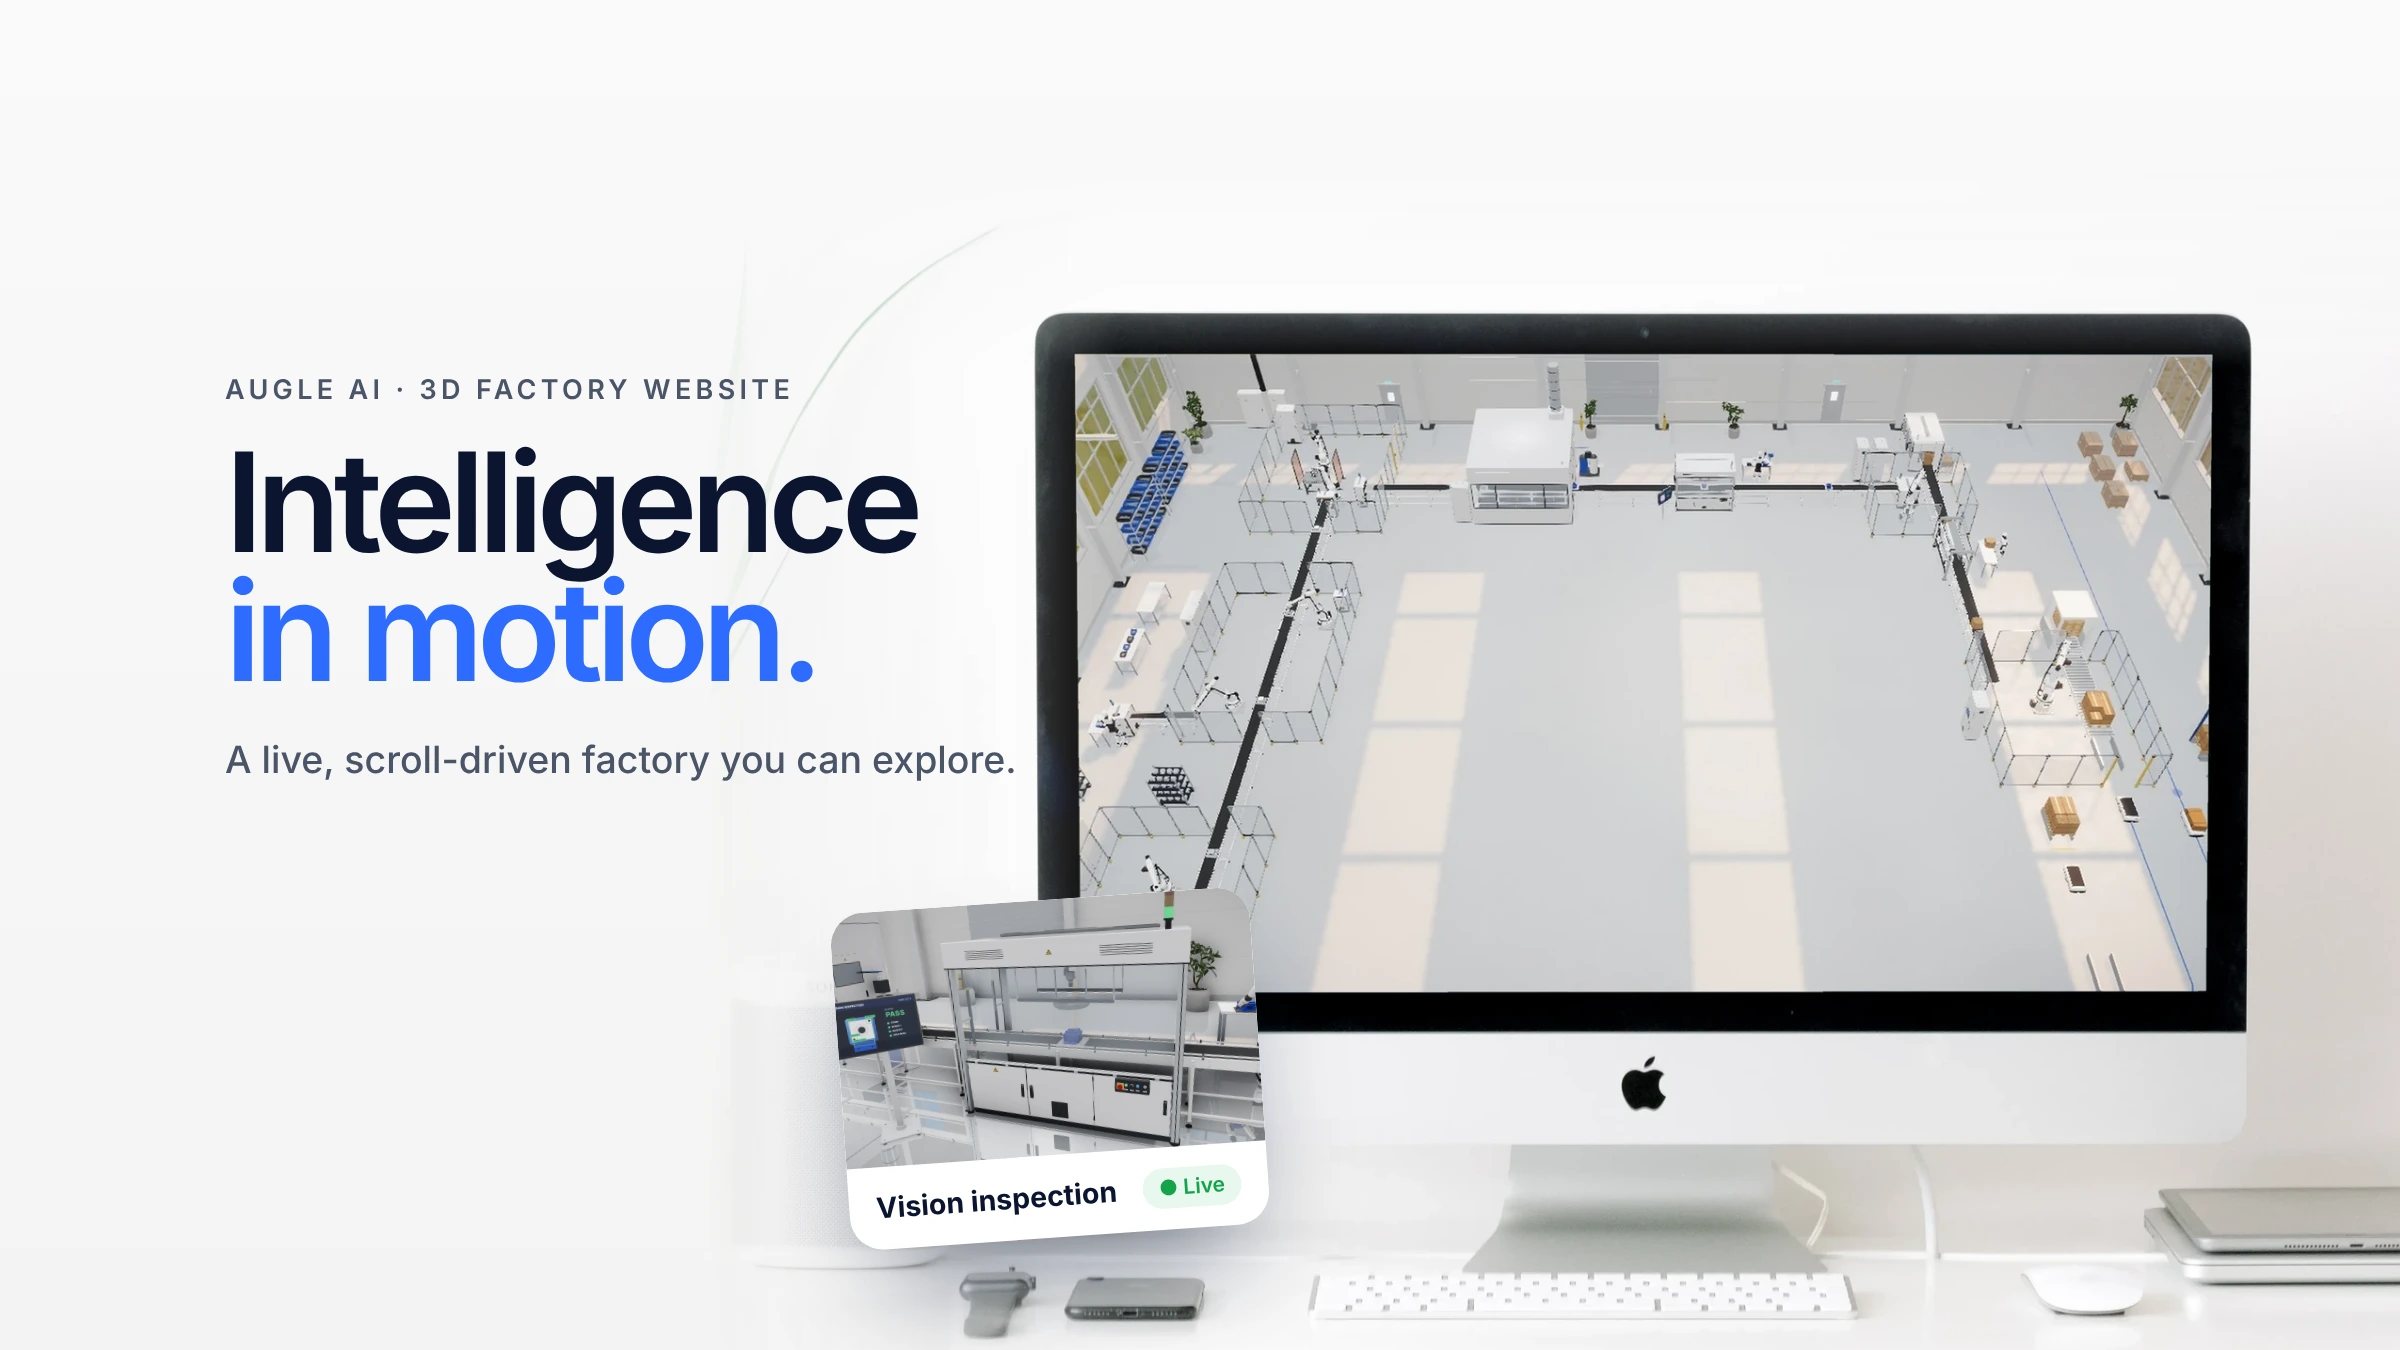
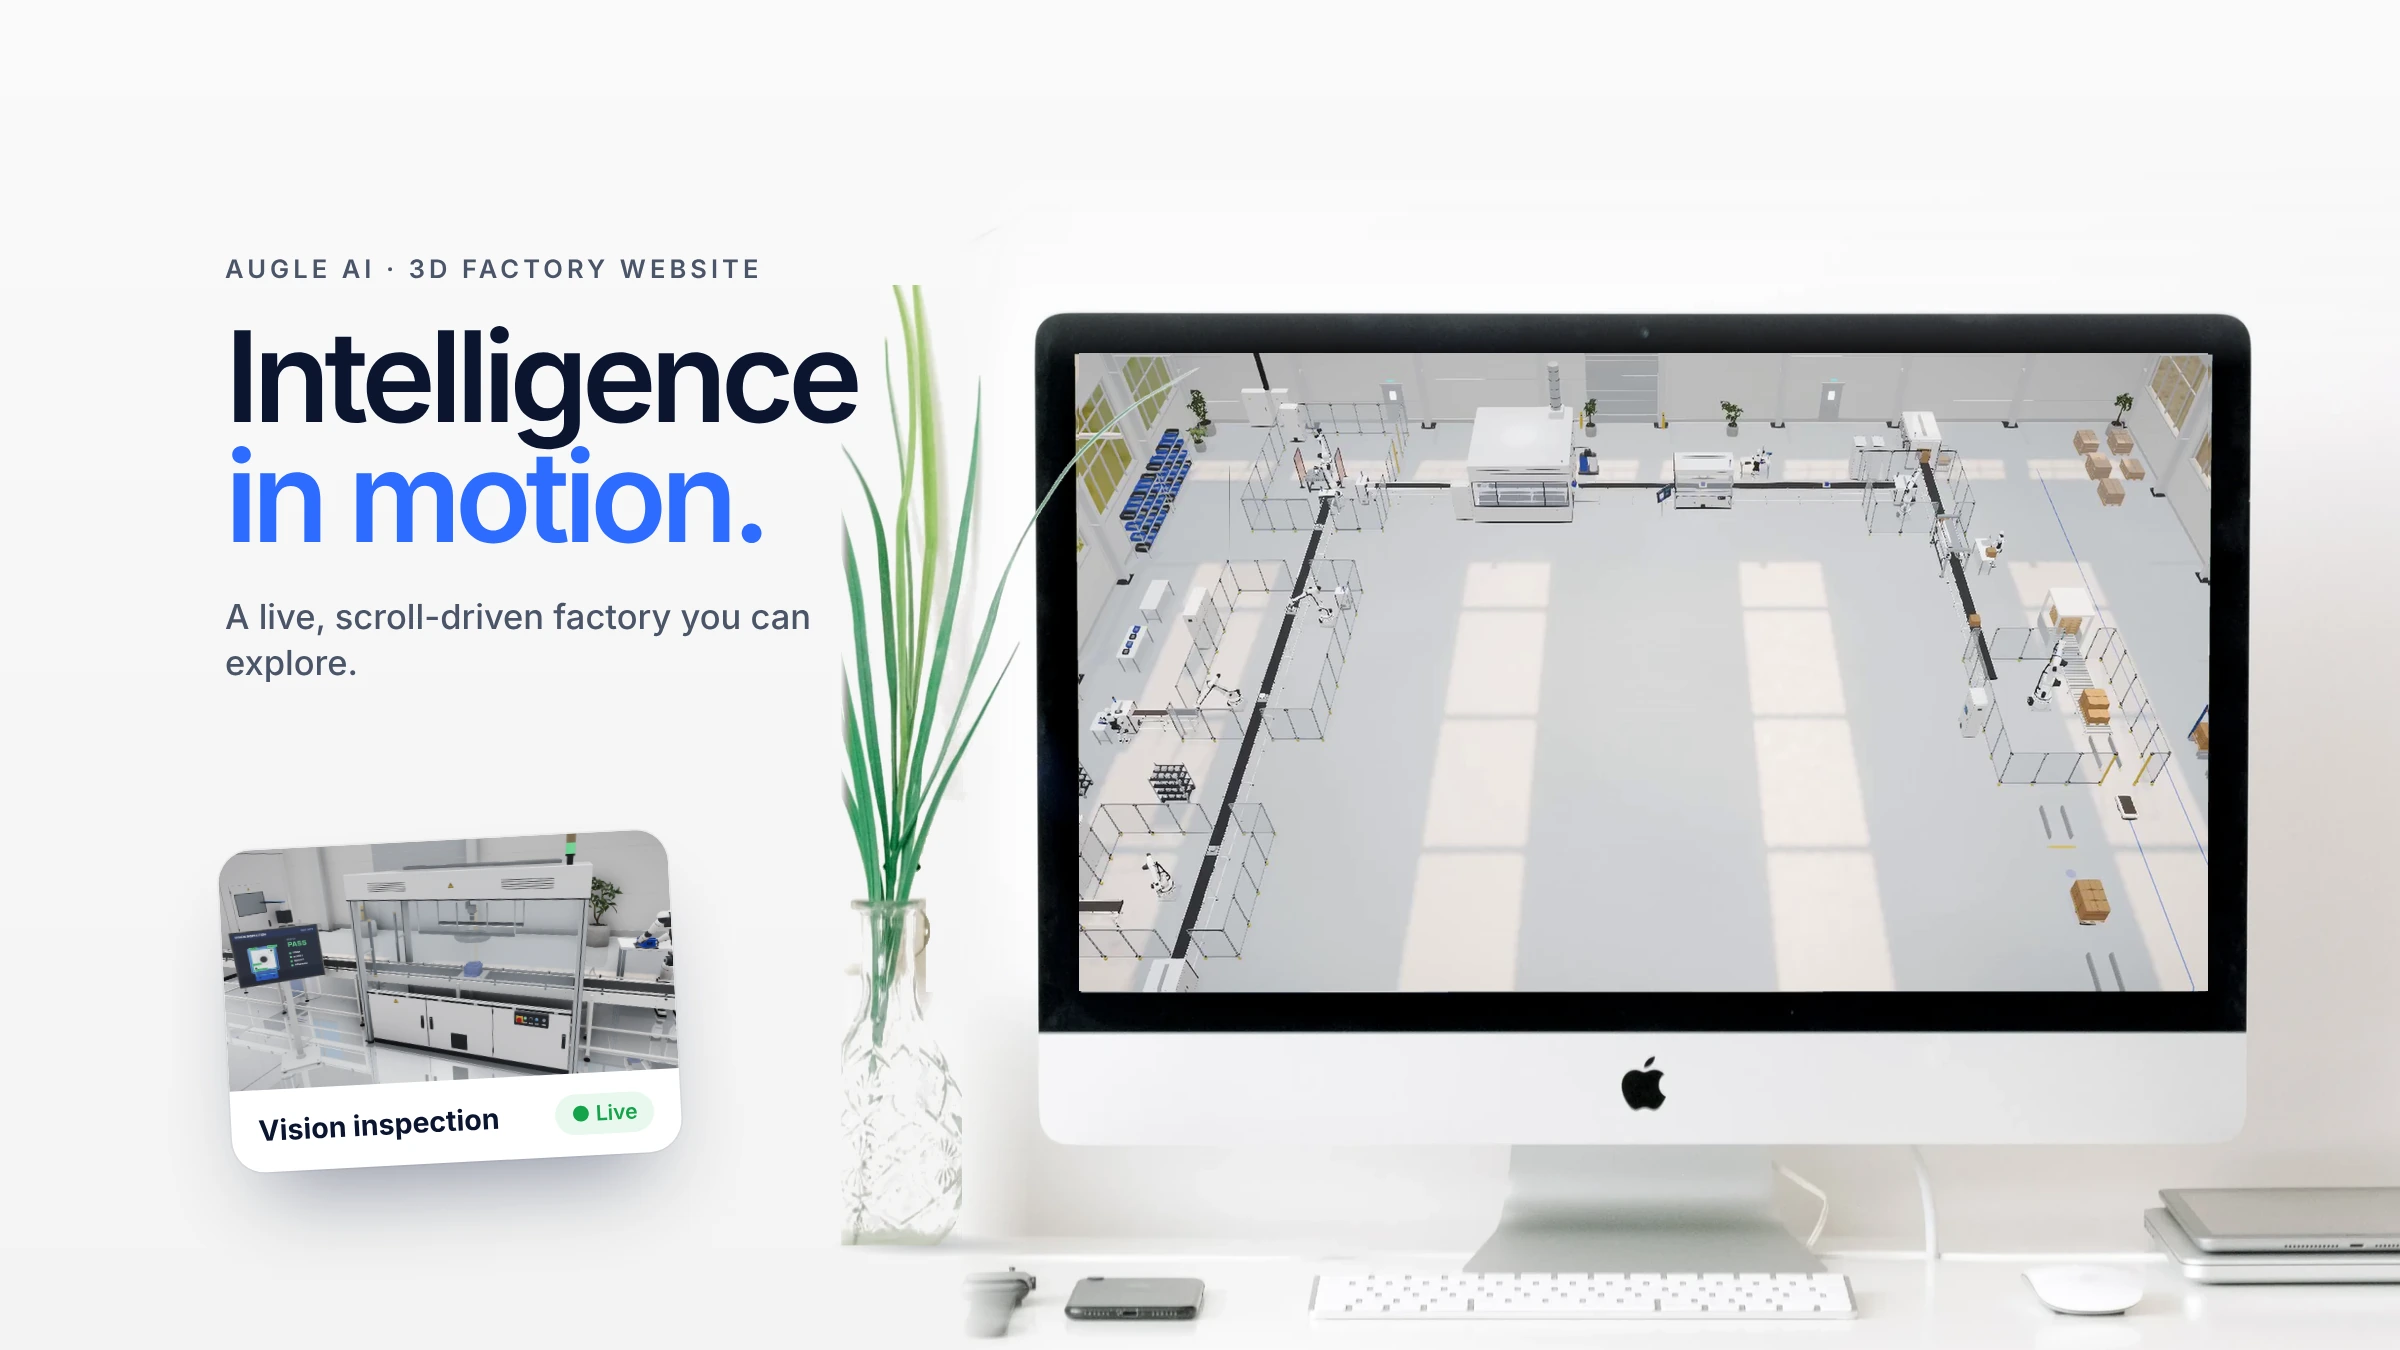
Augle AI cover: live factory fly-through on screen, glass vase plant; animated card image
Claude-Session: https://claude.ai/code/session_01SemH7L5vWzs6hJ7dDKU3vZ

Changed region(s): [[0.0938, 0.2178, 0.9375, 0.9956], [0.6875, 0.4044, 0.8125, 0.7467], [0.0938, 0.1867, 0.3125, 0.2178]]

diff --git a/pages/Explorations.dc.html b/pages/Explorations.dc.html
@@ -1319,7 +1319,7 @@ class Component extends DCLogic {
     const HDS = new Set(["adm_1.webp", "adm_2.webp", "bcard_back.webp", "bcard_front.webp", "bcard_grid_b.webp", "bcard_grid_f.webp", "bcard_mock.webp", "detail.webp", "g_animalia.webp", "g_berry.webp", "g_fashion.webp", "g_juice.webp", "g_mag.webp", "g_mango.webp", "g_menu.webp", "g_nature.webp", "g_style.webp", "g_wild.webp", "gm_bongo.webp", "gm_wood1.webp", "gm_wood2.webp", "int_1.webp", "int_2.webp", "int_3.webp", "int_4.webp", "int_5.webp", "int_6.webp", "m_arcade.webp", "m_bust.webp", "m_cart.webp", "m_char1.webp", "m_char2.webp", "m_chess.webp", "m_cup.webp", "m_glass.webp", "m_grenade.webp", "m_grille.webp", "m_house.webp", "m_tent.webp", "m_texture.webp", "m_toon.webp", "m_truck.webp", "mic_01_apc_b.webp", "mic_01_apc_f.webp", "mic_02_degreaser_b.webp", "mic_02_degreaser_f.webp", "mic_03_hard_water_remover_b.webp", "mic_03_hard_water_remover_f.webp", "mic_04_glass_cleaner_b.webp", "mic_04_glass_cleaner_f.webp", "mic_05_ipa_b.webp", "mic_05_ipa_f.webp", "mic_06_shampoo_b.webp", "mic_06_shampoo_f.webp", "mic_07_tar_remover_b.webp", "mic_07_tar_remover_f.webp", "mic_08_engine_dressing_b.webp", "mic_08_engine_dressing_f.webp", "mic_09_tire_gel_b.webp", "mic_09_tire_gel_f.webp", "mic_10_fibre_dressing_b.webp", "mic_10_fibre_dressing_f.webp", "mic_11_perfume_b.webp", "mic_11_perfume_f.webp", "paw_p1.webp", "paw_p2.webp", "paw_p3.webp", "paw_p4.webp", "paw_p5.webp", "paw_p6.webp", "sang_1.webp", "sang_2.webp", "sang_3.webp", "school_poster.webp"]);
     const HD = (x) => { const mm = /^(.*assets\/)[^\/]+\/([^\/?#]+)$/.exec(x || ''); return mm && HDS.has(mm[2]) ? mm[1] + 'hd/' + mm[2] : x; }; this.HD = HD;
     const UXS = [
-      ['01','Case-Augle.dc.html','3D web experience','Augle AI — Interactive Factory','A real-time 3D factory that makes industrial automation tangible, with an optional guided tour.','../assets/covers/augle.webp','Augle AI website on a laptop'],
+      ['01','Case-Augle.dc.html','3D web experience','Augle AI — Interactive Factory','A real-time 3D factory that makes industrial automation tangible, with an optional guided tour.','../assets/covers/augle-live.webp','Augle AI website on a desktop'],
       ['02','Case-NomNom.dc.html','Brand + app','Nom Nom','A brand identity and ordering app for sweets and snacks, designed as one system.','../assets/covers/nomnom.webp','Nom Nom app on a phone'],
       ['03','Case-Parallel.dc.html','Concept · Social','Parallel','Watch films together in real time with friends and family in other cities.','../assets/covers/parallel.webp','Parallel group watch room on a phone'],
       ['04','Case-Hotel.dc.html','iOS app · Hospitality','Q100 — Room Inspection App','AI-assisted room inspections for hotel housekeeping staff.','../assets/work/q100/img/thumbnail.jpg','Q100 app screens on three iPhones'],

diff --git a/Explorations.html b/Explorations.html
@@ -1321,7 +1321,7 @@ class Component extends DCLogic {
     const HDS = new Set(["adm_1.webp", "adm_2.webp", "bcard_back.webp", "bcard_front.webp", "bcard_grid_b.webp", "bcard_grid_f.webp", "bcard_mock.webp", "detail.webp", "g_animalia.webp", "g_berry.webp", "g_fashion.webp", "g_juice.webp", "g_mag.webp", "g_mango.webp", "g_menu.webp", "g_nature.webp", "g_style.webp", "g_wild.webp", "gm_bongo.webp", "gm_wood1.webp", "gm_wood2.webp", "int_1.webp", "int_2.webp", "int_3.webp", "int_4.webp", "int_5.webp", "int_6.webp", "m_arcade.webp", "m_bust.webp", "m_cart.webp", "m_char1.webp", "m_char2.webp", "m_chess.webp", "m_cup.webp", "m_glass.webp", "m_grenade.webp", "m_grille.webp", "m_house.webp", "m_tent.webp", "m_texture.webp", "m_toon.webp", "m_truck.webp", "mic_01_apc_b.webp", "mic_01_apc_f.webp", "mic_02_degreaser_b.webp", "mic_02_degreaser_f.webp", "mic_03_hard_water_remover_b.webp", "mic_03_hard_water_remover_f.webp", "mic_04_glass_cleaner_b.webp", "mic_04_glass_cleaner_f.webp", "mic_05_ipa_b.webp", "mic_05_ipa_f.webp", "mic_06_shampoo_b.webp", "mic_06_shampoo_f.webp", "mic_07_tar_remover_b.webp", "mic_07_tar_remover_f.webp", "mic_08_engine_dressing_b.webp", "mic_08_engine_dressing_f.webp", "mic_09_tire_gel_b.webp", "mic_09_tire_gel_f.webp", "mic_10_fibre_dressing_b.webp", "mic_10_fibre_dressing_f.webp", "mic_11_perfume_b.webp", "mic_11_perfume_f.webp", "paw_p1.webp", "paw_p2.webp", "paw_p3.webp", "paw_p4.webp", "paw_p5.webp", "paw_p6.webp", "sang_1.webp", "sang_2.webp", "sang_3.webp", "school_poster.webp"]);
     const HD = (x) => { const mm = /^(.*assets\/)[^\/]+\/([^\/?#]+)$/.exec(x || ''); return mm && HDS.has(mm[2]) ? mm[1] + 'hd/' + mm[2] : x; }; this.HD = HD;
     const UXS = [
-      ['01','Case-Augle.html','3D web experience','Augle AI — Interactive Factory','A real-time 3D factory that makes industrial automation tangible, with an optional guided tour.','assets/covers/augle.webp','Augle AI website on a laptop'],
+      ['01','Case-Augle.html','3D web experience','Augle AI — Interactive Factory','A real-time 3D factory that makes industrial automation tangible, with an optional guided tour.','assets/covers/augle-live.webp','Augle AI website on a desktop'],
       ['02','Case-NomNom.html','Brand + app','Nom Nom','A brand identity and ordering app for sweets and snacks, designed as one system.','assets/covers/nomnom.webp','Nom Nom app on a phone'],
       ['03','Case-Parallel.html','Concept · Social','Parallel','Watch films together in real time with friends and family in other cities.','assets/covers/parallel.webp','Parallel group watch room on a phone'],
       ['04','Case-Hotel.html','iOS app · Hospitality','Q100 — Room Inspection App','AI-assisted room inspections for hotel housekeeping staff.','assets/work/q100/img/thumbnail.jpg','Q100 app screens on three iPhones'],

diff --git a/pages/Main.dc.html b/pages/Main.dc.html
@@ -2366,7 +2366,7 @@ class Component extends DCLogic {
       steps: sv, current: sv[cur], progress: ((cur + 1) / 7 * 100) + '%',
       disc: D.map((d, i) => ({ ...d, primary: !!d.primary, num: '0' + (i + 1), open: i === o, sign: i === o ? '−' : '+', toggle: () => this.setState({ open: this.state.open === i ? -1 : i }) })),
       projects: [
-        { num: '01', href: 'Case-Augle.dc.html', cat: '3D web experience', desc: 'A real-time 3D factory that makes industrial automation tangible, with an optional guided tour.', title: 'Augle AI — Interactive Factory', tags: '3D web • Interaction design • Art direction • AI-assisted frontend', img: '../assets/covers/augle.webp', alt: 'Augle AI website open on a laptop on a desk: a white 3D factory overview with the headline Intelligence in motion' },
+        { num: '01', href: 'Case-Augle.dc.html', cat: '3D web experience', desc: 'A real-time 3D factory that makes industrial automation tangible, with an optional guided tour.', title: 'Augle AI — Interactive Factory', tags: '3D web • Interaction design • Art direction • AI-assisted frontend', img: '../assets/covers/augle-live.webp', alt: 'Augle AI website on a desktop computer, with the 3D factory moving on screen and a plant in a glass vase' },
         { num: '02', href: 'Case-NomNom.dc.html', cat: 'Brand + app', desc: 'A brand identity and ordering app for sweets and snacks, designed as one system.', title: 'Nom Nom', tags: 'Branding • Visual identity • App UI', img: '../assets/covers/nomnom.webp', alt: 'Nom Nom app on a phone in a kitchen' },
         { num: '03', href: 'Case-Parallel.dc.html', cat: 'Concept · Social', desc: 'Watch films together in real time with friends and family in other cities.', title: 'Parallel', tags: 'Concept • Platform design • Social', img: '../assets/covers/parallel.webp', alt: 'Parallel group watch room on a phone' },
         { num: '04', href: 'Case-Hotel.dc.html', cat: 'iOS app · Hospitality', desc: 'AI-assisted room inspections for hotel housekeeping staff.', title: 'Q100 — Room Inspection App', tags: 'UX Research • UI Design • Design System', img: '../assets/work/q100/img/thumbnail.jpg', alt: 'Q100 Room Inspection App case study cover with three iPhone screens' },

diff --git a/index.html b/index.html
@@ -2368,7 +2368,7 @@ class Component extends DCLogic {
       steps: sv, current: sv[cur], progress: ((cur + 1) / 7 * 100) + '%',
       disc: D.map((d, i) => ({ ...d, primary: !!d.primary, num: '0' + (i + 1), open: i === o, sign: i === o ? '−' : '+', toggle: () => this.setState({ open: this.state.open === i ? -1 : i }) })),
       projects: [
-        { num: '01', href: 'Case-Augle.html', cat: '3D web experience', desc: 'A real-time 3D factory that makes industrial automation tangible, with an optional guided tour.', title: 'Augle AI — Interactive Factory', tags: '3D web • Interaction design • Art direction • AI-assisted frontend', img: 'assets/covers/augle.webp', alt: 'Augle AI website open on a laptop on a desk: a white 3D factory overview with the headline Intelligence in motion' },
+        { num: '01', href: 'Case-Augle.html', cat: '3D web experience', desc: 'A real-time 3D factory that makes industrial automation tangible, with an optional guided tour.', title: 'Augle AI — Interactive Factory', tags: '3D web • Interaction design • Art direction • AI-assisted frontend', img: 'assets/covers/augle-live.webp', alt: 'Augle AI website on a desktop computer, with the 3D factory moving on screen and a plant in a glass vase' },
         { num: '02', href: 'Case-NomNom.html', cat: 'Brand + app', desc: 'A brand identity and ordering app for sweets and snacks, designed as one system.', title: 'Nom Nom', tags: 'Branding • Visual identity • App UI', img: 'assets/covers/nomnom.webp', alt: 'Nom Nom app on a phone in a kitchen' },
         { num: '03', href: 'Case-Parallel.html', cat: 'Concept · Social', desc: 'Watch films together in real time with friends and family in other cities.', title: 'Parallel', tags: 'Concept • Platform design • Social', img: 'assets/covers/parallel.webp', alt: 'Parallel group watch room on a phone' },
         { num: '04', href: 'Case-Hotel.html', cat: 'iOS app · Hospitality', desc: 'AI-assisted room inspections for hotel housekeeping staff.', title: 'Q100 — Room Inspection App', tags: 'UX Research • UI Design • Design System', img: 'assets/work/q100/img/thumbnail.jpg', alt: 'Q100 Room Inspection App case study cover with three iPhone screens' },
